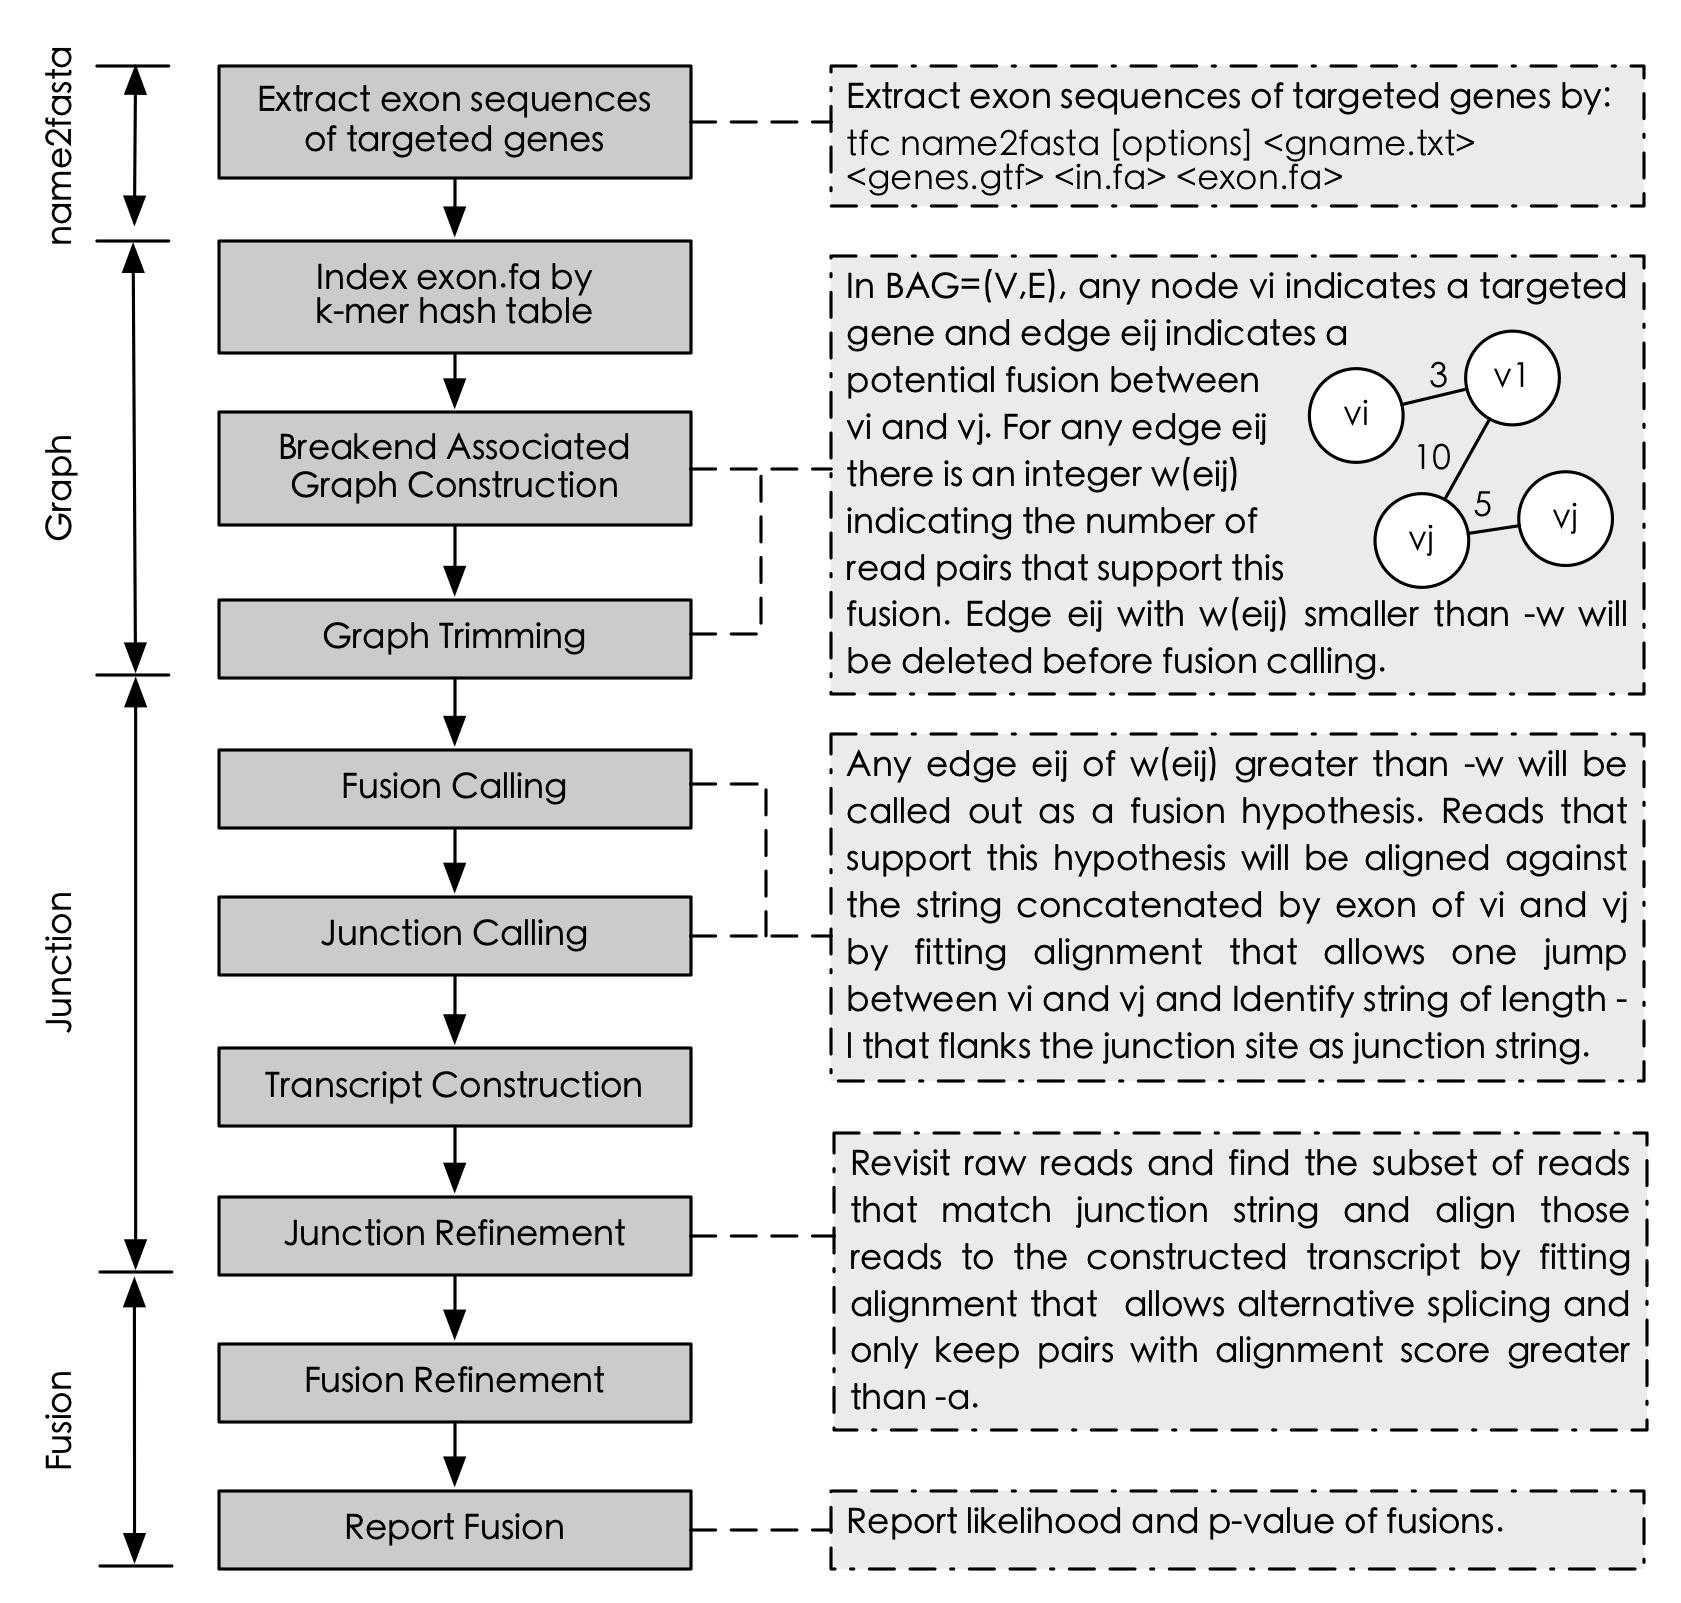
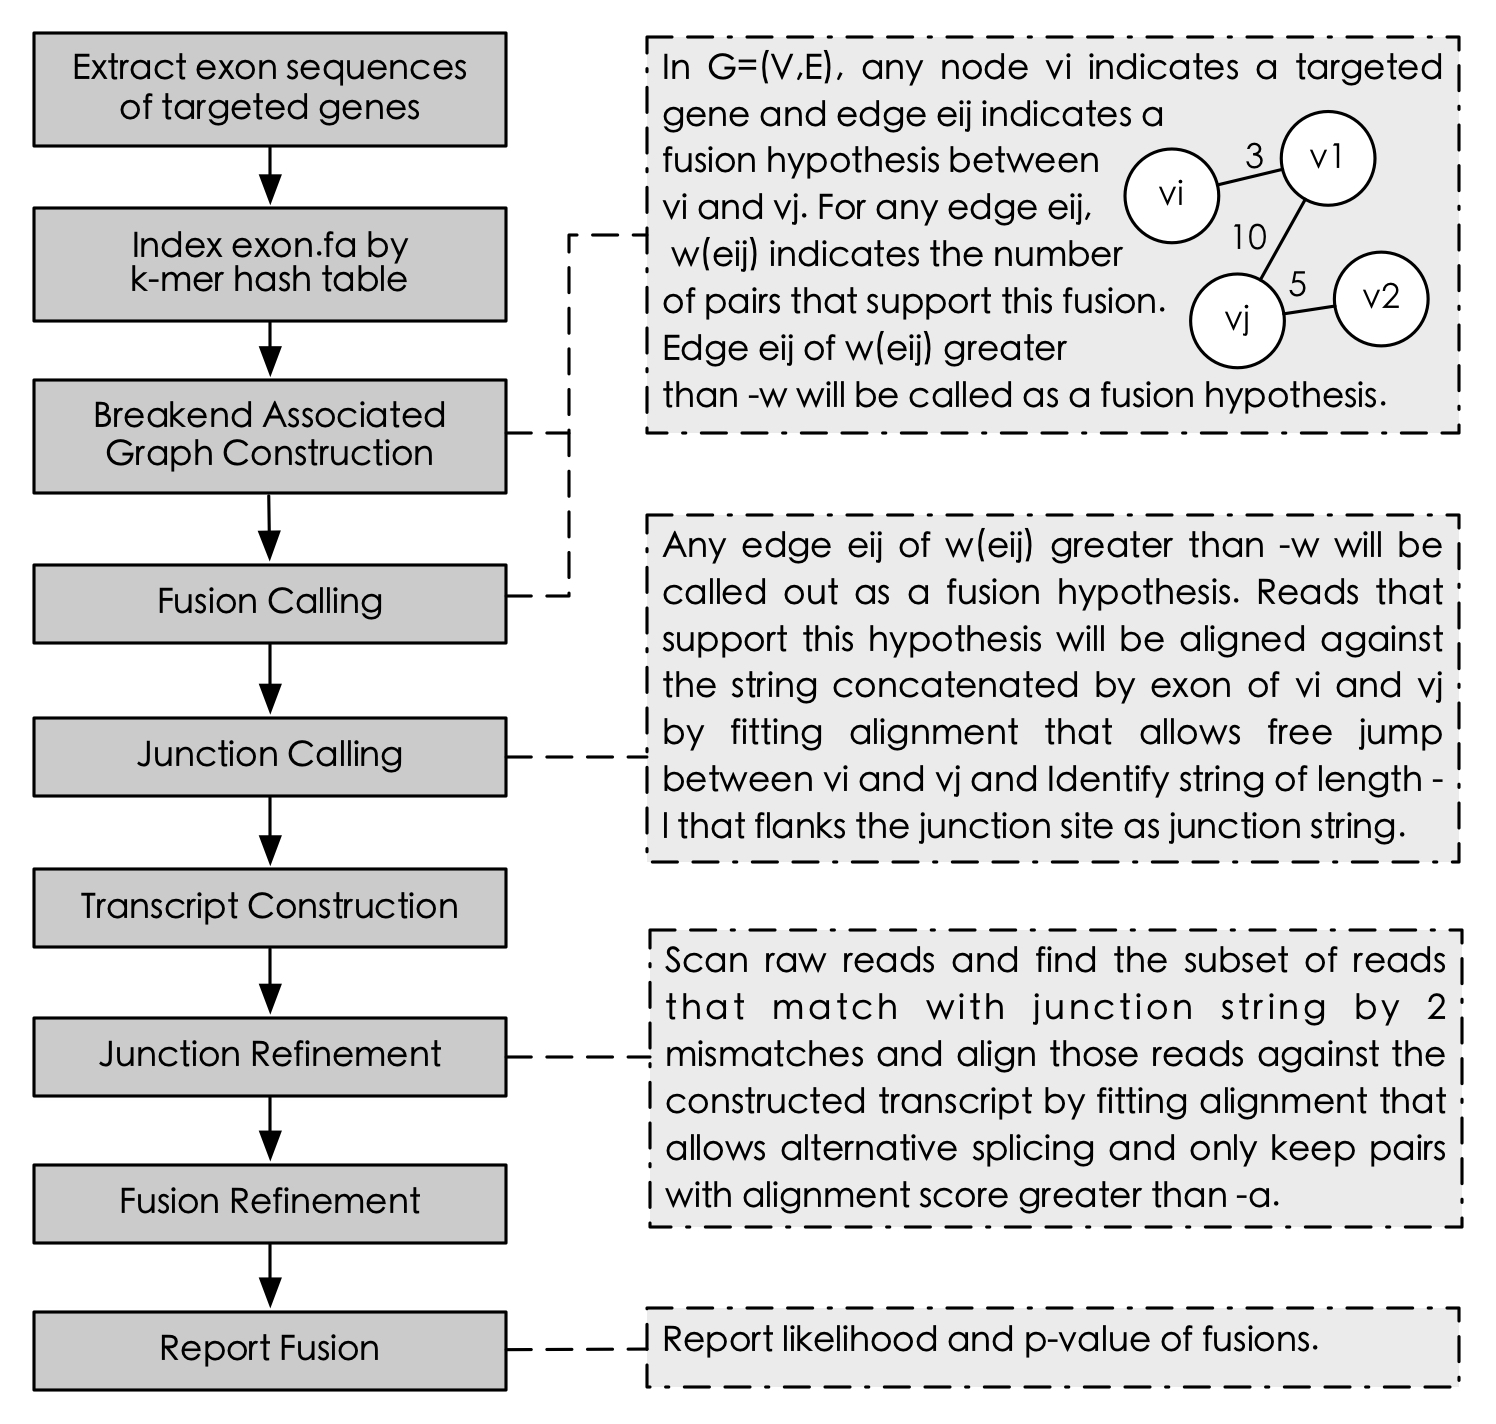
reduce depedency of predict on name2fasta

diff --git a/src/predict.c b/src/predict.c
@@ -6,6 +6,7 @@
 /*--------------------------------------------------------------------*/
 
 #include "predict.h"
+#include "name2fasta.h"
 
 static kmer_t *kmer_index(fasta_t *, int);
 static bag_t  *bag_construct(kmer_t *, gene_t **, char*, char*, int, int, int);
@@ -17,6 +18,8 @@ static junction_t *transcript_construct_no_junc(char* gname1, char *gname2, fast
 static junction_t *transcript_construct_junc(junction_t *junc_ht, fasta_t *exon_ht);
 static inline int find_all_genes(str_ctr **hash, kmer_t *KMER_HT, char* _read, int _k);
 static int update_fusion(bag_t **edge, solution_pair_t **res, opt_t *opt);
+
+
 
 /*
  * Description:
@@ -60,6 +63,7 @@ static kmer_t
 	kmer_uniq(&ret);
 	return ret;
 }
+
 
 /*
  * Description:
@@ -956,7 +960,7 @@ static int output(bag_t *bag, gene_t *gene, opt_t *opt){
 
 static int pred_usage(opt_t *opt){
 	fprintf(stderr, "\n");
-			fprintf(stderr, "Usage:   tfc predict [options] <exon.fa> <R1.fq> <R2.fq>\n\n");
+			fprintf(stderr, "Usage:   tfc predict [options] <gname.txt> <genes.gtf> <in.fa> <R1.fq> <R2.fq>\n\n");
 			fprintf(stderr, "Details: predict gene fusion from pair-end RNA-seq data\n\n");
 			fprintf(stderr, "Options:\n");
 			
@@ -984,14 +988,35 @@ static int pred_usage(opt_t *opt){
 			fprintf(stderr, "         -p FLOAT  p-value cutoff for fusions [%.2f]\n", opt->pvalue);
 			
 			fprintf(stderr, "\n");
-			fprintf(stderr, "Inputs:  exon.fa   .fasta file that contains exon sequences of \n");
-			fprintf(stderr, "                   targeted genes, which can be generated by: \n");
-			fprintf(stderr, "                   tfc name2fasta <gname.txt> <genes.gtf> <in.fa> <exon.fa>  \n");
+			fprintf(stderr, "Inputs:  gname.txt plain txt file that contains name of gene candidates\n");
+			fprintf(stderr, "         genes.gtf gtf file that contains gene annotation\n");
+			fprintf(stderr, "         in.fa     fasta file that contains reference genome\n");
 			fprintf(stderr, "         R1.fq     5'->3' end of pair-end sequencing reads\n");
 			fprintf(stderr, "         R2.fq     the other end of sequencing reads\n");
 			return 1;
 }
 
+static fasta_t* convert_exon_seq(fasta_t *fa){
+	if(fa==NULL) return NULL;
+	fasta_t *ret = NULL;
+	fasta_t *s, *s_fasta;
+	char* name;
+	char idx[15];
+	str_ctr *s_ctr, *ctr = NULL;
+	
+	for(s=fa; s!=NULL; s=s->hh.next){
+		str_ctr_add(&ctr, s->gene_name);
+		s_ctr = find_ctr(ctr, s->gene_name);
+		sprintf(idx, "%d", s_ctr->SIZE);
+		name = join(3, s->gene_name, ".", idx);				
+		s_fasta = fasta_init();
+		s_fasta->name = strdup(name);	
+		s_fasta->seq = strdup(s->seq);	
+		HASH_ADD_STR(ret, name, s_fasta);		
+		free(name);
+	}
+	return ret;
+}
 /*--------------------------------------------------------------------*/
 /*  predict  */
 int predict(int argc, char *argv[]) {
@@ -1017,10 +1042,12 @@ int predict(int argc, char *argv[]) {
 		}
 	}
 
-	if (optind + 3 > argc) return pred_usage(opt);
-	opt->fa  = argv[optind];    // exon.fa
-	opt->fq1 = argv[optind+1];  // read1
-	opt->fq2 = argv[optind+2];  // read2
+	if (optind + 5 > argc) return pred_usage(opt);
+	opt->gfile  = argv[optind];    // gnames.txt
+	opt->gtf  = argv[optind+1];    // genes.gtf
+	opt->fa  = argv[optind+2];     // hg19.fa
+	opt->fq1 = argv[optind+3];     // read1.fq
+	opt->fq2 = argv[optind+4];     // read2.fq
 	
 	if(opt->k < MIN_KMER_LEN || opt->k > MAX_KMER_LEN) die("[%s] -k must be within [%d, %d]", __func__, MIN_KMER_LEN, MAX_KMER_LEN); 	
 	if(opt->min_kmer_match < MIN_MIN_KMER_MATCH) die("[%s] -n must be within [%d, +INF)", __func__,   MIN_MIN_KMER_MATCH); 	
@@ -1028,9 +1055,16 @@ int predict(int argc, char *argv[]) {
 	if(opt->min_hits < MIN_MIN_HITS) die("[%s] -h must be within [%d, +INF)", __func__, MIN_MIN_HITS); 	
 	if(opt->min_align_score < MIN_MIN_ALIGN_SCORE || opt->min_align_score > MAX_MIN_ALIGN_SCORE) die("[%s] -a must be within [%d, %d]", __func__, MIN_MIN_ALIGN_SCORE, MAX_MIN_ALIGN_SCORE); 	
 	
-	fprintf(stderr, "[%s] loading sequences of targeted genes ... \n",__func__);
-	if((EXON_HT = fasta_read(opt->fa)) == NULL) die("[%s] fail to read %s", __func__, opt->fa);	
+	fprintf(stderr, "[%s] loading reference genome sequences ... \n",__func__);
+	if((GENO_HT = fasta_read(opt->fa)) == NULL) die("[%s] can't load reference genome %s", __func__, opt->fa);	
+	fasta_t *exon_tmp = NULL;
+	fprintf(stderr, "[%s] Exracting exon sequences ... \n",__func__);
+	if((exon_tmp = extract_exon_seq(opt->gfile, opt->gtf, GENO_HT, "exon"))==NULL) die("[%s] can't extract exon sequences of %s", __func__, opt->gfile);
+	if(GENO_HT)          fasta_destroy(&GENO_HT);
 
+	EXON_HT = convert_exon_seq(exon_tmp);
+	if(exon_tmp)          fasta_destroy(&exon_tmp);
+	
 	fprintf(stderr, "[%s] getting genes infomration ... \n",__func__);
 	if((GENE_HT = fasta_get_info(EXON_HT)) == NULL) die("[%s] fail to gene genes' information", __func__);	
 	
@@ -1039,7 +1073,7 @@ int predict(int argc, char *argv[]) {
     
 	fprintf(stderr, "[%s] constructing breakend associated graph ... \n", __func__);
 	if((BAGR_HT = bag_construct(KMER_HT, &GENE_HT, opt->fq1, opt->fq2, opt->min_kmer_match, opt->min_edge_weight, opt->k)) == NULL) return 0;
-	
+	//
 	fprintf(stderr, "[%s] triming graph by removing edges of weight smaller than %d... \n", __func__, opt->min_edge_weight);
 	if(bag_trim(&BAGR_HT, opt->min_edge_weight)!=0){
 		fprintf(stderr, "[%s] fail to trim graph \n", __func__);
@@ -1079,7 +1113,7 @@ int predict(int argc, char *argv[]) {
     	fprintf(stderr, "[%s] no fusion identified\n", __func__);
     	return 0;		
 	}
-
+    
 	/* score the fusion */
 	if(fuse_score(SOLU_HT, &BAGR_HT, opt->alpha)!=0){
     	fprintf(stderr, "[%s] fail to score fusion\n", __func__);

diff --git a/src/predict.h b/src/predict.h
@@ -46,6 +46,8 @@ typedef struct {
 
 //opt
 typedef struct {
+	char* gfile;
+	char* gtf;
 	char* fq1; 
 	char* fq2; 
 	char* fa; 
@@ -74,16 +76,19 @@ static           gene_t   *GENE_HT     = NULL;
 static  solution_pair_t   *SOLU_HT     = NULL;  // alignment solition of reads against JUN0_HT
 static  solution_pair_t   *SOLU_UNIQ_HT     = NULL;  // alignment solition of reads against JUN0_HT
 static             char   *PROC_SELF_STATUS = "/proc/self/status";
+static          fasta_t   *GENO_HT     = NULL;
 
 /* intitlize opt_t object */
 static inline opt_t *opt_init(){
 	opt_t *opt = mycalloc(1, opt_t);
+	opt->gfile = NULL;
+	opt->gtf = NULL;
 	opt->fq1 = NULL;
 	opt->fq2 = NULL;
 	opt->fa = NULL;
 	opt->k = 15;
 	opt->min_kmer_match = 10;
-	opt->min_edge_weight = 3;	
+	opt->min_edge_weight = 4;	
 	opt->match = 2;
 	opt->mismatch = -2.0;
 	opt->gap = -5.0;
@@ -101,6 +106,8 @@ static inline opt_t *opt_init(){
 
 /* destory opt_t object */
 static inline void destory_opt(opt_t *opt){
+	if(opt->gfile) free(opt->gfile);
+	if(opt->gtf) free(opt->gtf);
 	if(opt->fq1) free(opt->fq1);
 	if(opt->fq2) free(opt->fq2);
 	if(opt->fa)  free(opt->fa);

diff --git a/src/main.c b/src/main.c
@@ -20,8 +20,8 @@ static int usage()
 	fprintf(stderr, "Contact: Rongxin Fang <r3fang@ucsd.edu>\n\n");
 	fprintf(stderr, "Usage:   tfc <command> [options]\n\n");
 	fprintf(stderr, "Command: rapid          predict gene fusions in a rapid mode\n");
-	fprintf(stderr, "         name2fasta     extract DNA sequences\n");
 	fprintf(stderr, "         predict        predict gene fusions\n");
+	fprintf(stderr, "         name2fasta     extract DNA sequences\n");
 	fprintf(stderr, "\n");
 	return 1;
 }
@@ -35,8 +35,8 @@ int main(int argc, char *argv[])
 	for (i = 1; i < argc; ++i) ksprintf(&pg, " %s", argv[i]);
 	if (argc < 2) return usage();
 	else if (strcmp(argv[1], "rapid") == 0) ret = rapid(argc-1, argv+1);
-	else if (strcmp(argv[1], "name2fasta") == 0) ret = name2fasta(argc-1, argv+1);
 	else if (strcmp(argv[1], "predict") == 0) ret = predict(argc-1, argv+1);
+	else if (strcmp(argv[1], "name2fasta") == 0) ret = name2fasta(argc-1, argv+1);
 	else {
 		fprintf(stderr, "[main] unrecognized command '%s'\n", argv[1]);
 		return 1;

diff --git a/src/name2fasta.c b/src/name2fasta.c
@@ -35,7 +35,7 @@ static char *name_trim(char *s, char delim){
  *-------
  * fasta_uthash object that contains extracted sequences.
  */
-static fasta_t *extract_exon_seq(char* fname, char *fname_db, fasta_t *HG19_HT, char *genr){
+fasta_t *extract_exon_seq(char* fname, char *fname_db, fasta_t *HG19_HT, char *genr){
 	if(fname==NULL || fname_db==NULL || HG19_HT==NULL) return NULL;
 	fasta_t *s_fasta, *cur_fasta, *ret_fasta = NULL;
 	str_ctr *s_ctr, *ctr = NULL, *gene_name_ctr = NULL;

diff --git a/src/name2fasta.h b/src/name2fasta.h
@@ -28,4 +28,6 @@ int name2fasta_usage();
  */
 int name2fasta(int argc, char *argv[]);
 
+fasta_t *extract_exon_seq(char* fname, char *fname_db, fasta_t *HG19_HT, char *genr);
+
 #endif

diff --git a/README.md b/README.md
@@ -9,8 +9,8 @@ $ ./tfc rapid A431-1-ABGHI_S1_L001_R1_001.fastq.gz A431-1-ABGHI_S1_L001_R2_001.f
 
 ##Introduction
 
-**TFC** is a *precise*, *lightweight*, *fast*, *stand-alone*, *C-implemented* and *mapping-free* Bioinformatics software designed for **fusion detection** by pair-end RNA-seq data. TFC has two modes, **rapid** and **predict**. **rapid** mode only asks users for two .fastq files and predicts against a list of fixed gene candidates with fixed parameters settings. **predict** allows user to determine the gene candidates and all parameters.
- 
+**TFC** is a precise, fast, stand-alone, C-implemented and mapping-free Bioinformatics software designed for **fusion detection** from RNA-seq data. TFC has two modes, **rapid** and **predict**. **rapid** mode requires only two .fastq files and allows user to have a quick prediction against a list of predefined gene candidates with default parameter setting. **predict** allows user to determine the gene candidates and parameters themselves. In brief, **rapid** is easier to use and **predict** is more flexible.
+
 ```
 $ ./tfc 
 
